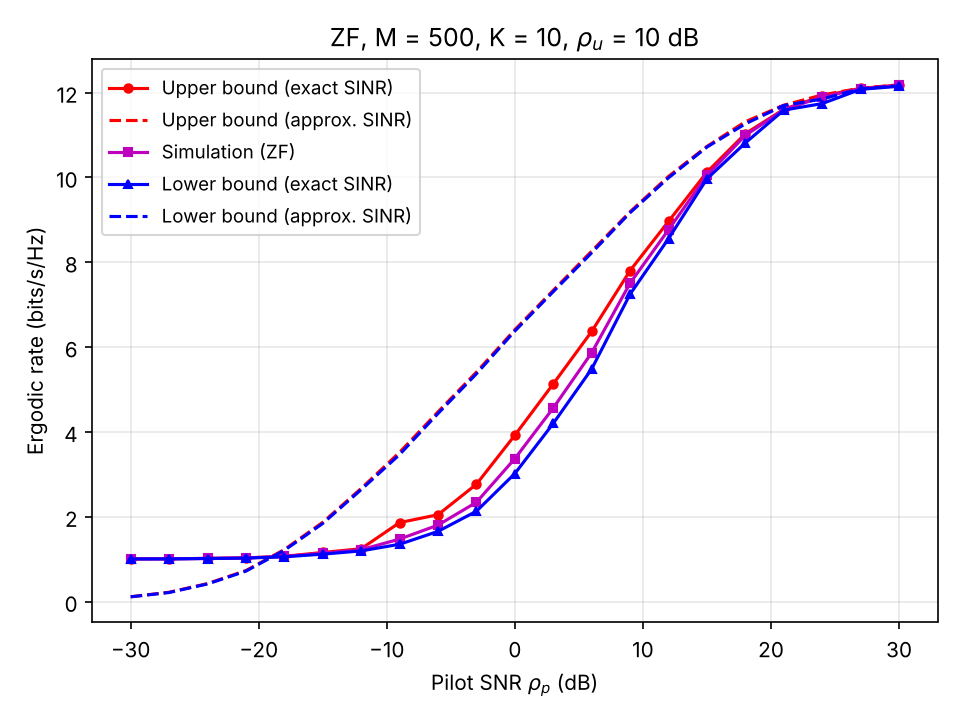
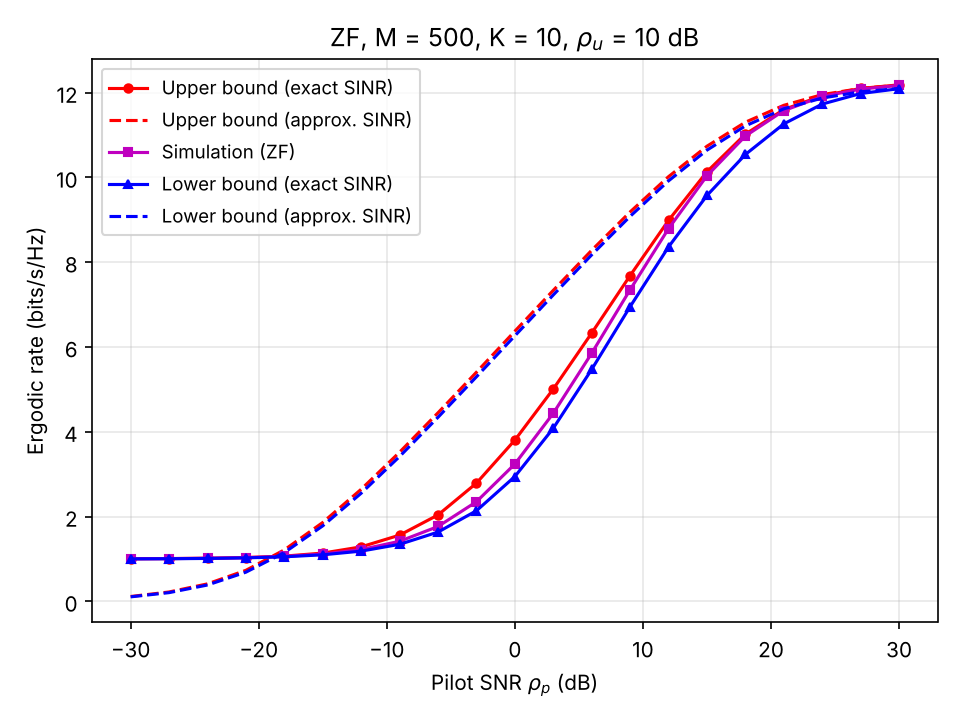
Smooth curves: common random numbers and 1000 drone drops
- Same seed for every point on a curve; separate RNG streams for drone
  drops and noise so all points share identical drone geometries
- Default 1000 drops x 200 noise realisations (was 200 x 300)
- --figs option to run a subset of figures
- Regenerated figures and updated README

Claude-Session: https://claude.ai/code/session_014LqBnoppaHzYrH26ZUWYwf

diff --git a/python/run_figures.py b/python/run_figures.py
@@ -3,9 +3,10 @@ Reproduce the figures of ``SPAWC2018_ZF.m`` in Python.
 
 Usage
 -----
-    python run_figures.py                 # full run (200 drops x 300 noise, as in MATLAB)
+    python run_figures.py                 # full run (1000 drops x 200 noise)
     python run_figures.py --quick         # fast preview (50 drops x 100 noise)
-    python run_figures.py --drops 100 --noise 200 --seed 1 --out ../figures
+    python run_figures.py --figs 1a,2       # subset of figures
+    python run_figures.py --drops 200 --noise 300 --seed 1 --out ../figures
 """
 
 from __future__ import annotations
@@ -37,8 +38,12 @@ def pilot_power(rhop):
     return rhop * (4 * np.pi * R / LAM) ** 2
 
 
-def sweep(params, **kw):
-    return [calc_spawc2018(**p, **kw) for p in params]
+def sweep(params, seed, **kw):
+    """Evaluate every point with the *same* seed (common random numbers):
+    each point on a curve sees identical drone drops and noise draws, so the
+    curves are smooth and differences between points reflect only the swept
+    parameter, not drop-to-drop randomness."""
+    return [calc_spawc2018(**p, **kw, rng=np.random.default_rng(seed)) for p in params]
 
 
 def plot_bounds(ax, x, res, xlabel, title):
@@ -56,17 +61,17 @@ def plot_bounds(ax, x, res, xlabel, title):
 
 def main():
     ap = argparse.ArgumentParser()
-    ap.add_argument("--drops", type=int, default=200)
-    ap.add_argument("--noise", type=int, default=300)
+    ap.add_argument("--drops", type=int, default=1000)
+    ap.add_argument("--noise", type=int, default=200)
     ap.add_argument("--quick", action="store_true")
+    ap.add_argument("--figs", default="1a,1b,2,3", help="comma-separated subset of 1a,1b,2,3")
     ap.add_argument("--seed", type=int, default=2018)
     ap.add_argument("--out", default=os.path.join(os.path.dirname(__file__), "..", "figures"))
     a = ap.parse_args()
     if a.quick:
         a.drops, a.noise = 50, 100
     os.makedirs(a.out, exist_ok=True)
-    rng = np.random.default_rng(a.seed)
-    kw = dict(K=K, delta=DEL, lam=LAM, n_drops=a.drops, n_noise=a.noise, radius=R, rng=rng)
+    kw = dict(K=K, delta=DEL, lam=LAM, n_drops=a.drops, n_noise=a.noise, radius=R, seed=a.seed)
 
     def save(fig, name):
         path = os.path.join(a.out, name)
@@ -75,51 +80,56 @@ def main():
         plt.close(fig)
         print(f"  saved {path}")
 
+    figs = set(a.figs.split(","))
     t0 = time.time()
 
     # ---------------- Figure 1a: rate vs pilot SNR, M = 100 ----------------
-    print("Figure 1a ...")
-    rhop_db = np.arange(-10, 31, 3)
-    res = sweep([dict(M=100, pu_p=pilot_power(r), rhou=db2lin(10)) for r in db2lin(rhop_db)], **kw)
-    fig, ax = plt.subplots(figsize=(6.4, 4.8))
-    plot_bounds(ax, rhop_db, res, r"Pilot SNR $\rho_p$ (dB)",
-                rf"ZF, M = 100, K = {K}, $\rho_u$ = 10 dB")
-    save(fig, "fig1a_rate_vs_pilot_snr_M100.png")
+    if "1a" in figs:
+        print("Figure 1a ...")
+        rhop_db = np.arange(-10, 31, 3)
+        res = sweep([dict(M=100, pu_p=pilot_power(r), rhou=db2lin(10)) for r in db2lin(rhop_db)], **kw)
+        fig, ax = plt.subplots(figsize=(6.4, 4.8))
+        plot_bounds(ax, rhop_db, res, r"Pilot SNR $\rho_p$ (dB)",
+                    rf"ZF, M = 100, K = {K}, $\rho_u$ = 10 dB")
+        save(fig, "fig1a_rate_vs_pilot_snr_M100.png")
 
     # ---------------- Figure 1b: rate vs pilot SNR, M = 500 ----------------
-    print("Figure 1b ...")
-    rhop_db = np.arange(-30, 31, 3)
-    res = sweep([dict(M=500, pu_p=pilot_power(r), rhou=db2lin(10)) for r in db2lin(rhop_db)], **kw)
-    fig, ax = plt.subplots(figsize=(6.4, 4.8))
-    plot_bounds(ax, rhop_db, res, r"Pilot SNR $\rho_p$ (dB)",
-                rf"ZF, M = 500, K = {K}, $\rho_u$ = 10 dB")
-    save(fig, "fig1b_rate_vs_pilot_snr_M500.png")
+    if "1b" in figs:
+        print("Figure 1b ...")
+        rhop_db = np.arange(-30, 31, 3)
+        res = sweep([dict(M=500, pu_p=pilot_power(r), rhou=db2lin(10)) for r in db2lin(rhop_db)], **kw)
+        fig, ax = plt.subplots(figsize=(6.4, 4.8))
+        plot_bounds(ax, rhop_db, res, r"Pilot SNR $\rho_p$ (dB)",
+                    rf"ZF, M = 500, K = {K}, $\rho_u$ = 10 dB")
+        save(fig, "fig1b_rate_vs_pilot_snr_M500.png")
 
     # ---------------- Figure 2: rate vs number of GS antennas --------------
-    print("Figure 2 ...")
-    M_arr = np.arange(50, 501, 50)
-    res = sweep([dict(M=int(M), pu_p=pilot_power(db2lin(30)), rhou=10.0) for M in M_arr], **kw)
-    fig, ax = plt.subplots(figsize=(6.4, 4.8))
-    plot_bounds(ax, M_arr, res, "Number of GS antennas M",
-                rf"ZF, K = {K}, $\rho_p$ = 30 dB, $\rho_u$ = 10 dB")
-    save(fig, "fig2_rate_vs_antennas.png")
+    if "2" in figs:
+        print("Figure 2 ...")
+        M_arr = np.arange(50, 501, 50)
+        res = sweep([dict(M=int(M), pu_p=pilot_power(db2lin(30)), rhou=10.0) for M in M_arr], **kw)
+        fig, ax = plt.subplots(figsize=(6.4, 4.8))
+        plot_bounds(ax, M_arr, res, "Number of GS antennas M",
+                    rf"ZF, K = {K}, $\rho_p$ = 30 dB, $\rho_u$ = 10 dB")
+        save(fig, "fig2_rate_vs_antennas.png")
 
     # ---------------- Figure 3: ZF vs MRC, rate vs data SNR ----------------
-    print("Figure 3 ...")
-    rhou_db = np.arange(-30, 31, 3)
-    fig, ax = plt.subplots(figsize=(6.4, 4.8))
-    for rp_db, ls in [(30, "-"), (-10, "--")]:
-        res = sweep([dict(M=100, pu_p=pilot_power(db2lin(rp_db)), rhou=r) for r in db2lin(rhou_db)], **kw)
-        ax.plot(rhou_db, [r.rate_zf for r in res], "b" + ls, marker="o", ms=4,
-                label=rf"ZF ($\rho_p$ = {rp_db} dB)")
-        ax.plot(rhou_db, [r.rate_mrc for r in res], "r" + ls, marker="s", ms=4,
-                label=rf"MRC ($\rho_p$ = {rp_db} dB)")
-    ax.set_xlabel(r"Data SNR $\rho_u$ (dB)")
-    ax.set_ylabel("Ergodic rate (bits/s/Hz)")
-    ax.set_title(f"ZF vs MRC, M = 100, K = {K}")
-    ax.grid(True, alpha=0.3)
-    ax.legend(loc="best", fontsize=9)
-    save(fig, "fig3_zf_vs_mrc.png")
+    if "3" in figs:
+        print("Figure 3 ...")
+        rhou_db = np.arange(-30, 31, 3)
+        fig, ax = plt.subplots(figsize=(6.4, 4.8))
+        for rp_db, ls in [(30, "-"), (-10, "--")]:
+            res = sweep([dict(M=100, pu_p=pilot_power(db2lin(rp_db)), rhou=r) for r in db2lin(rhou_db)], **kw)
+            ax.plot(rhou_db, [r.rate_zf for r in res], "b" + ls, marker="o", ms=4,
+                    label=rf"ZF ($\rho_p$ = {rp_db} dB)")
+            ax.plot(rhou_db, [r.rate_mrc for r in res], "r" + ls, marker="s", ms=4,
+                    label=rf"MRC ($\rho_p$ = {rp_db} dB)")
+        ax.set_xlabel(r"Data SNR $\rho_u$ (dB)")
+        ax.set_ylabel("Ergodic rate (bits/s/Hz)")
+        ax.set_title(f"ZF vs MRC, M = 100, K = {K}")
+        ax.grid(True, alpha=0.3)
+        ax.legend(loc="best", fontsize=9)
+        save(fig, "fig3_zf_vs_mrc.png")
 
     print(f"Done in {time.time() - t0:.1f} s")
 

diff --git a/python/mimo_drone_zf.py b/python/mimo_drone_zf.py
@@ -101,6 +101,9 @@ def calc_spawc2018(M: int, K: int, delta: float, lam: float, pu_p: float,
     n_noise   : noise / estimation-error realisations per drop (MATLAB: 300)
     """
     rng = np.random.default_rng() if rng is None else rng
+    # Independent streams for drone positions and for noise, so that the
+    # drone drops do not depend on M (useful for common random numbers).
+    drop_rng, noise_rng = rng.spawn(2)
     e = 1 / np.sqrt(pu_p)
     I = np.eye(K)
 
@@ -111,16 +114,16 @@ def calc_spawc2018(M: int, K: int, delta: float, lam: float, pu_p: float,
     sinr_mrc = np.empty(n_drops)
 
     for t in range(n_drops):
-        d, z1 = drop_drones(K, radius, rng)
+        d, z1 = drop_drones(K, radius, drop_rng)
         G, beta = los_channel(M, d, z1, delta, lam)
         pu = rhou / beta                                  # power control
         sq_pu = np.sqrt(pu)
 
         # ---- n_noise realisations, vectorised over the batch axis ----
-        W = _crandn(rng, n_noise, M, K)
+        W = _crandn(noise_rng, n_noise, M, K)
         G_est = G[None] + e * W                           # (B,M,K)
-        n = _crandn(rng, n_noise, M, 1)
-        q = _crandn(rng, n_noise, K, 1)
+        n = _crandn(noise_rng, n_noise, M, 1)
+        q = _crandn(noise_rng, n_noise, K, 1)
         x = sq_pu[None, :, None] * q                      # (B,K,1)
 
         # ZF: G_est^+ = (G_est^H G_est)^-1 G_est^H

diff --git a/README.md b/README.md
@@ -49,9 +49,10 @@ E[zz<sup>H</sup>] ≈ (1 + Σp<sub>k</sub>/p<sub>p</sub> + tr((G<sup>H</sup>G)<s
 ```bash
 pip install -r requirements.txt
 cd python
-python run_figures.py            # full run: 200 drops × 300 noise realisations (same as MATLAB, ~15 min)
-python run_figures.py --quick    # quick preview: 50 × 100
-python run_figures.py --drops 100 --noise 200 --seed 7 --out ../figures
+python run_figures.py                 # full run: 1000 drops × 200 noise realisations (~50 min on 2 cores)
+python run_figures.py --quick         # quick preview: 50 × 100
+python run_figures.py --figs 1a,2     # only some figures (run subsets in parallel to use more cores)
+python run_figures.py --drops 200 --noise 300 --seed 7 --out ../figures   # MATLAB's original settings
 ```
 
 Using the core function directly:
@@ -68,8 +69,16 @@ print(r.rate_zf, r.rate_mrc, r.rate_ub_exact, r.rate_lb_exact)
 
 ## Results
 
-The figures below were generated with `python run_figures.py` (200 drone drops × 300
+The figures below were generated with `python run_figures.py` (1000 drone drops × 200
 noise/estimation-error realisations per point, seed 2018).
+
+**Smooth curves (common random numbers).** Every point on every curve is evaluated with the
+same seed, and drone positions and noise come from separate random streams. All points
+therefore see exactly the same 1000 drone geometries, even when *M* changes. Without this,
+each point draws its own drops. The lower bound E[1/SINR] is heavy-tailed: it is dominated by
+rare drops where two drones are almost aligned and G<sup>H</sup>G is nearly singular. So
+whether a point happens to sample such a drop makes the curve jump up and down, even with many
+more iterations.
 
 ### Figure 1a – ZF ergodic rate vs pilot SNR (M = 100)
 ![Figure 1a](figures/fig1a_rate_vs_pilot_snr_M100.png)
@@ -82,10 +91,9 @@ Observations:
 * The rate increases with pilot SNR and saturates once channel-estimation error
   becomes negligible (≈ 9.5 bits/s/Hz for M = 100, ≈ 12 bits/s/Hz for M = 500).
 * The **upper bound** log₂(1 + E[SINR]) is tight for all pilot SNRs.
-* With **M = 100** the **lower bound** is loose and irregular. E[1/SINR] is dominated by
-  occasional drops where two drones are close in angle and G<sup>H</sup>G is
-  ill-conditioned, so a few bad drops pull the bound down. This variability is part of the
-  model and is not a numerical artefact.
+* With **M = 100** the **lower bound** is noticeably loose (≈ 1.5–2 bits/s/Hz below the
+  simulation at high pilot SNR). This is because E[1/SINR] is dominated by the rare
+  ill-conditioned drone geometries described above.
 * With **M = 500** the array resolves the drones much better. Both exact bounds then hug the
   simulation. The closed-form approximation is accurate above roughly 15 dB pilot SNR but
   is optimistic at low pilot SNR, where the estimation error is no longer small.
@@ -109,7 +117,7 @@ is tight for every *M*. The lower bound converges to the simulated rate only for
 
 ## Notes on the Python port
 
-* The 300 inner noise realisations are vectorised with batched NumPy linear algebra,
+* The inner noise realisations are vectorised with batched NumPy linear algebra,
   so the Python version is considerably faster than the loop-based MATLAB code.
 * In the MATLAB MRC noise term, `G_est(:,lp_k)` is evaluated after the interference
   loop, so it uses drone *K*'s estimate instead of drone 1's. The Python port uses
